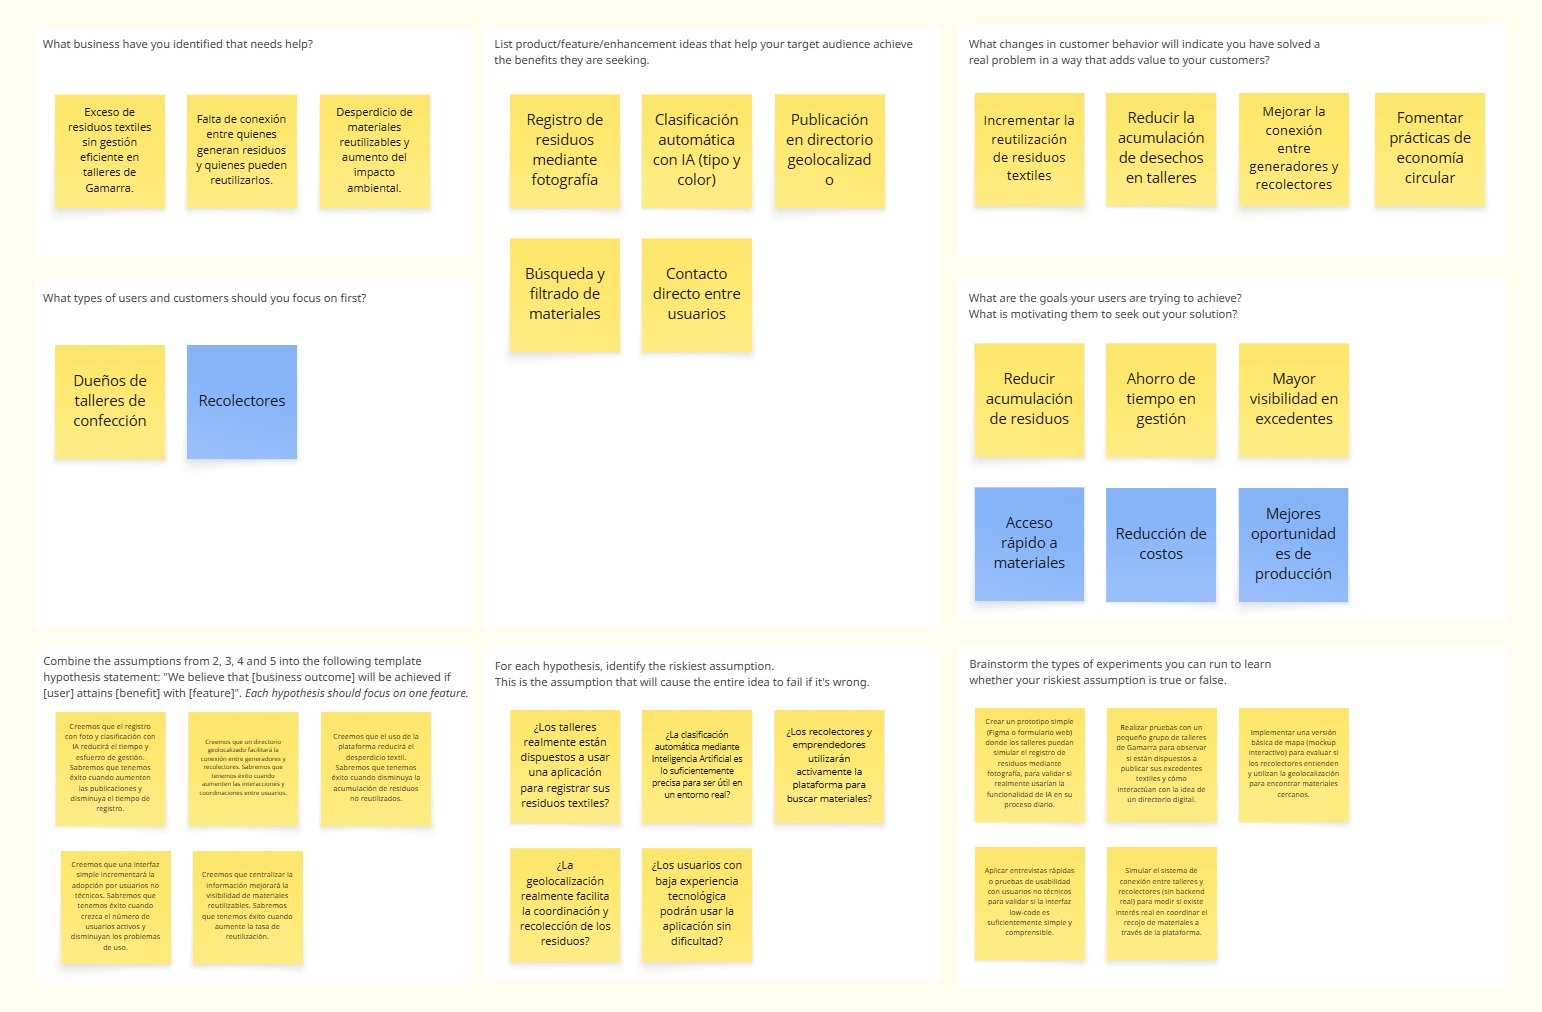
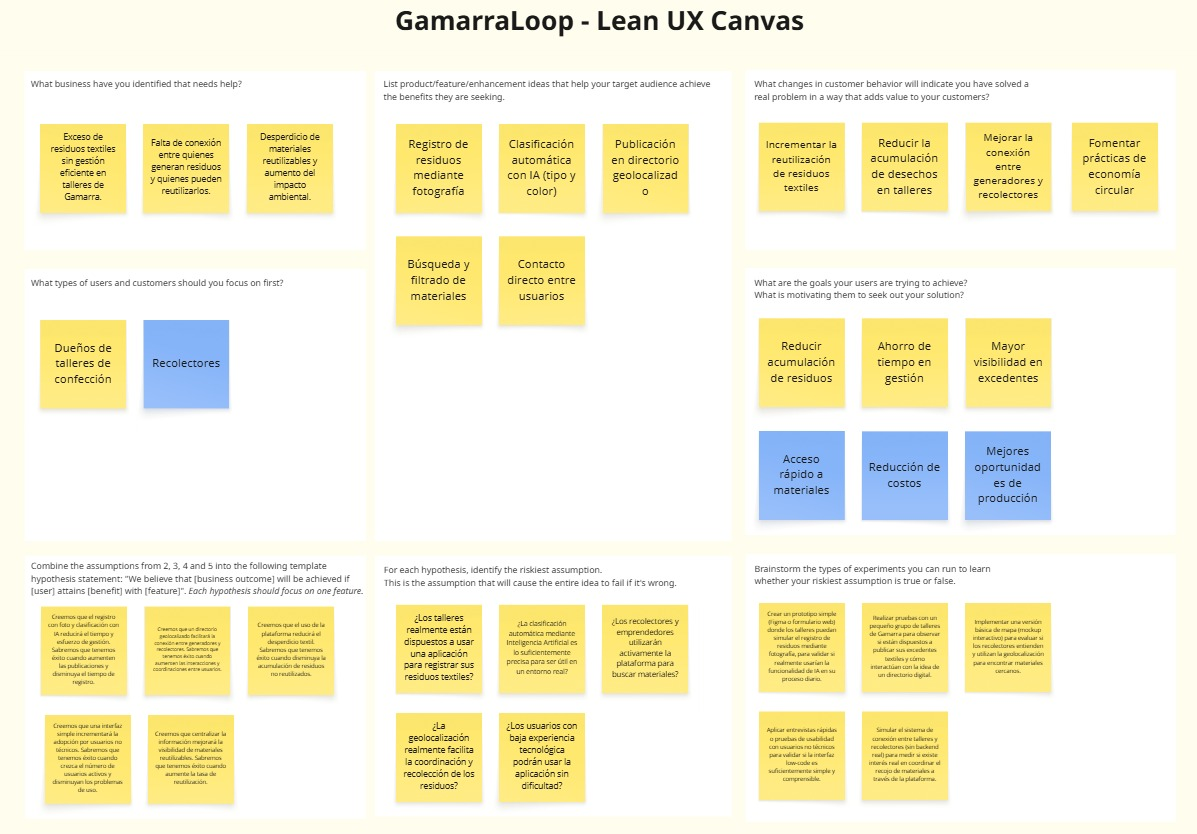
docs: add link to lean ux canvas on miro

diff --git a/README.md b/README.md
@@ -454,6 +454,8 @@ Para los generadores de estos residuos, un problema común es la dificultad para
 <img src="Img/Lean-UX-Canvas.jpg" alt="Lean Ux Canvas" style="margin-bottom: 5px;" width="800"/><br>
 *Figura: Lean Ux Canvas*
 
+> **URL del Lean UX Canvas:** [Lean UX Canvas](https://miro.com/app/board/uXjVHd6pQow=/?share_link_id=174494873351)
+
 <a name="1.3."></a>
 
 ## 1.3. Segmentos objetivo
